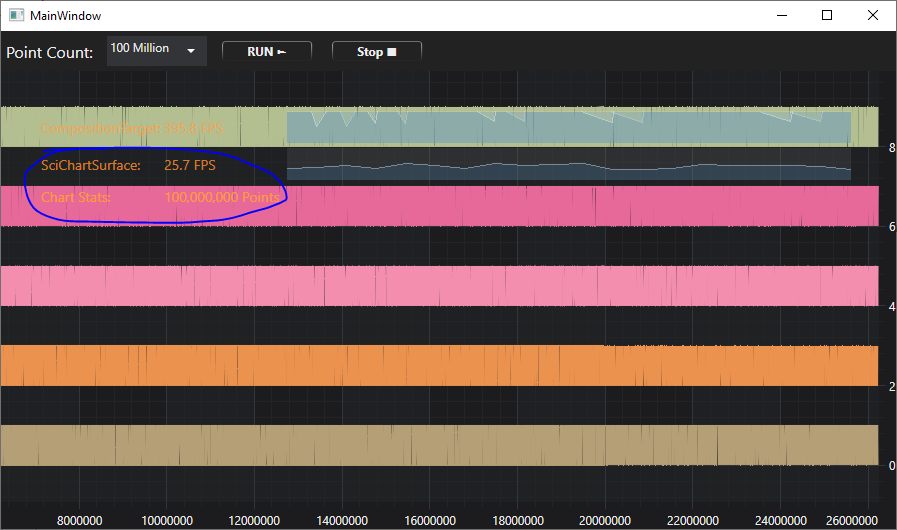
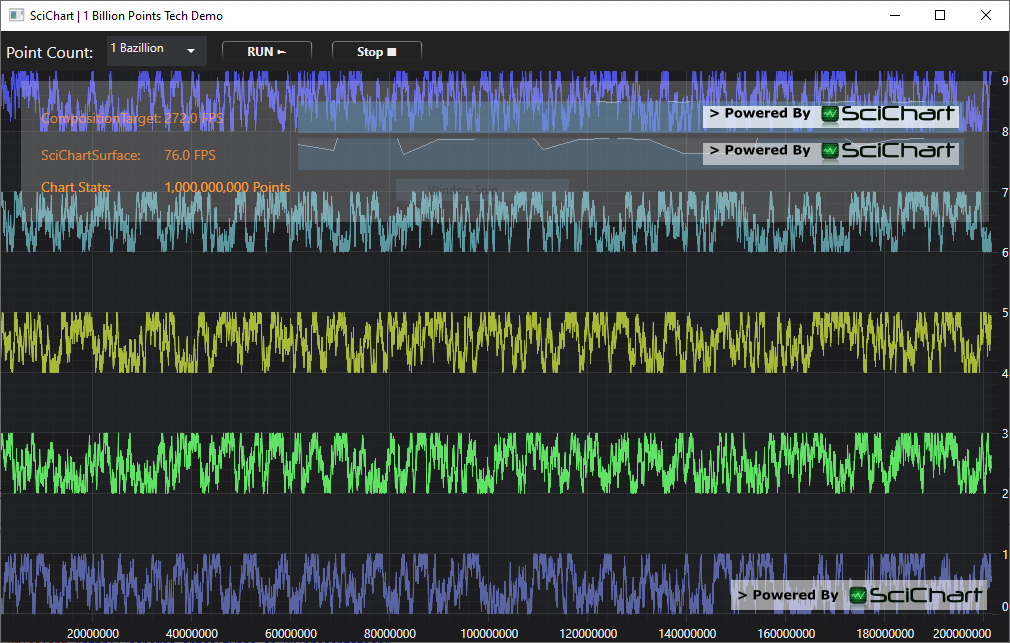
Updated image

diff --git a/Sandbox/Fifo100MillionPointsDemo/Fifo100MillionPointsDemo/MainWindow.xaml b/Sandbox/Fifo100MillionPointsDemo/Fifo100MillionPointsDemo/MainWindow.xaml
@@ -7,13 +7,13 @@
         xmlns:s="http://schemas.abtsoftware.co.uk/scichart"
         xmlns:abt="http://schemas.abtsoftware.co.uk/presentation"
         xmlns:tz="http://schemas.abtsoftware.co.uk/transitionz"
-        xmlns:system="clr-namespace:System;assembly=mscorlib"
+        Title="SciChart | 1 Billion Points Tech Demo"
         mc:Ignorable="d"
-        Title="MainWindow" Height="650" Width="1024"
+        Height="650" Width="1024"
         Background="{StaticResource AppBackgroundBrush}">
+
     <Window.Resources>
         <local:MainViewModel x:Key="vm"/>
-
         <abt:VisibleIfNotNullConverter x:Key="visNotNull"/>
     </Window.Resources>
 
